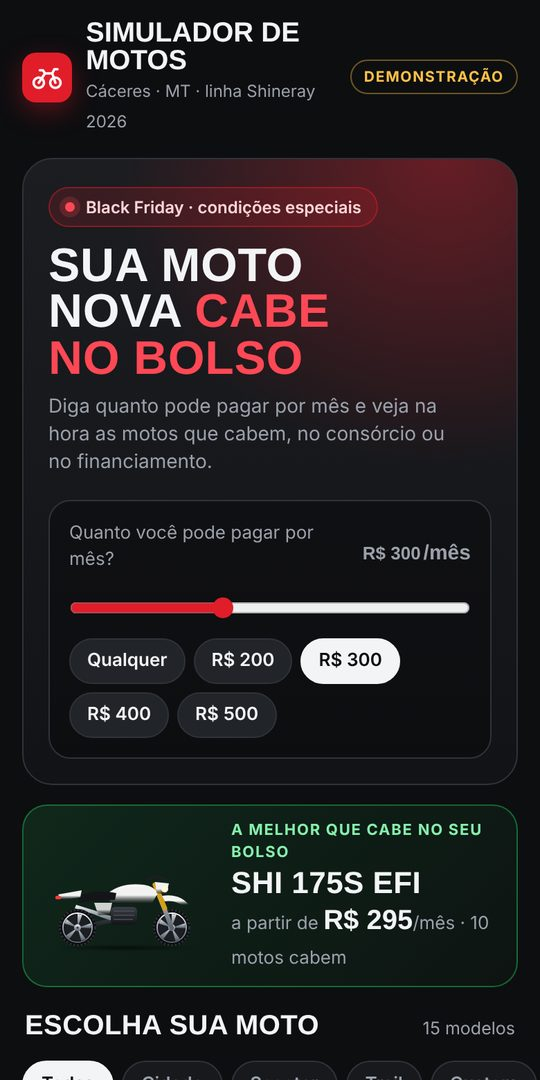
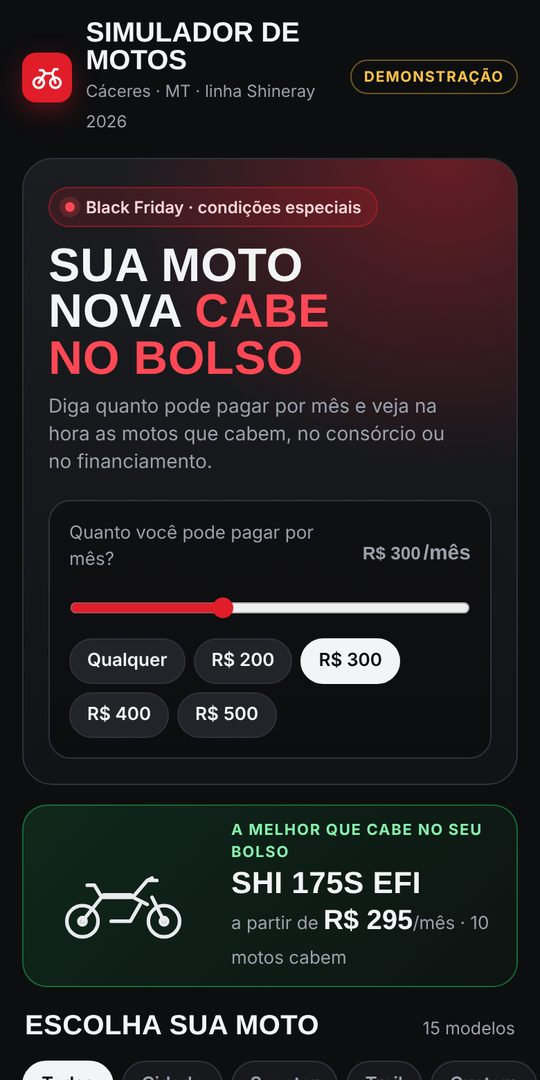
Simulador: volta os desenhos de traço, mantém o painel novo
Claude-Session: https://claude.ai/code/session_013yfqgnSFxvJMCizftNB9GF

Changed region(s): [[0.0889, 0.7944, 0.3556, 0.8861]]

diff --git a/simulador.html b/simulador.html
@@ -78,8 +78,8 @@ input[type=range]{width:100%;accent-color:var(--vermelho);margin:12px 0 8px;heig
 .card{position:relative;text-align:left;background:var(--chassi);border:1px solid var(--risco);border-radius:18px;padding:0 0 12px;display:flex;flex-direction:column;overflow:hidden;transition:transform .15s,border-color .15s}
 .card:hover{border-color:#4a4f57}
 .card:active{transform:scale(.98)}
-.palco{position:relative;padding:8px 6px 0;background:radial-gradient(70% 60% at 50% 100%,rgba(225,29,42,.22),transparent 70%),linear-gradient(180deg,#1d2024,#17191c)}
-.palco svg{display:block;width:100%;height:auto}
+.palco{position:relative;padding:16px 14px 8px;background:radial-gradient(70% 60% at 50% 100%,rgba(225,29,42,.22),transparent 70%),linear-gradient(180deg,#1d2024,#17191c)}
+.palco svg{display:block;width:100%;max-width:150px;height:auto;margin:0 auto}
 .card .in{padding:4px 12px 0;display:flex;flex-direction:column;gap:2px}
 .card small{font-size:10.5px;color:var(--apagado);text-transform:uppercase;letter-spacing:.07em;font-weight:600}
 .card h3{font-size:20px;font-weight:800;line-height:1.05}
@@ -106,7 +106,7 @@ input[type=range]{width:100%;accent-color:var(--vermelho);margin:12px 0 8px;heig
 @keyframes sobe{from{transform:translateY(30px);opacity:.4}to{transform:none;opacity:1}}
 .sh-in{overflow-y:auto;padding:0 16px 16px;flex:1}
 .sh-palco{position:relative;margin:0 -16px;padding:18px 24px 0;background:radial-gradient(70% 70% at 50% 100%,rgba(225,29,42,.3),transparent 70%),linear-gradient(180deg,#1f2226,#17191c);border-radius:24px 24px 0 0}
-.sh-palco svg{display:block;width:100%;max-width:420px;margin:0 auto;height:auto}
+.sh-palco svg{display:block;width:100%;max-width:260px;margin:0 auto;height:auto;padding:6px 0 14px}
 .x{position:absolute;top:12px;right:12px;background:rgba(0,0,0,.45);border:1px solid var(--risco);border-radius:12px;width:38px;height:38px;font-size:20px;line-height:1;color:var(--texto);z-index:2}
 .share{position:absolute;top:12px;left:12px;background:rgba(0,0,0,.45);border:1px solid var(--risco);border-radius:12px;height:38px;padding:0 12px;font-size:12.5px;font-weight:600;color:var(--texto);z-index:2}
 .sh-h{padding:10px 0 4px}
@@ -194,7 +194,7 @@ input[type=range]{width:100%;accent-color:var(--vermelho);margin:12px 0 8px;heig
   <div class="grid" id="grid"></div>
 
   <div class="confia"><div><b>Sem juros</b><span>no consórcio</span></div><div><b>Até 48x</b><span>no financiamento</span></div><div><b>Moto usada</b><span>vale como entrada</span></div></div>
-  <p class="nota">Preços sugeridos de fábrica (referência maio/2026); alguns modelos com frete à parte. Cores das ilustrações são só ilustrativas. Parcelas são estimativas: o financiamento depende de análise de crédito, e o consórcio segue as regras da administradora, com contemplação por sorteio ou lance.</p>
+  <p class="nota">Preços sugeridos de fábrica (referência maio/2026); alguns modelos com frete à parte. Parcelas são estimativas: o financiamento depende de análise de crédito, e o consórcio segue as regras da administradora, com contemplação por sorteio ou lance.</p>
   <div class="rod"><span>Demonstração criada por <a href="index.html">Cesar</a>.</span><button class="lnk" id="adm-open">Modo loja</button></div>
 </div>
 
@@ -202,111 +202,16 @@ input[type=range]{width:100%;accent-color:var(--vermelho);margin:12px 0 8px;heig
 <div class="toast" id="toast" hidden></div>
 
 <script>
-/* Ilustrações laterais das motos, desenhadas em SVG (sem fotos de terceiros). bike(tipo, cor, id) devolve o SVG. */
-function bike(t,cor,uid){
-  cor=cor||'#e11d2a';uid=uid||('b'+Math.random().toString(36).slice(2,7));
-  const G=`<defs>
-   <linearGradient id="${uid}c" x1="0" y1="0" x2="0" y2="1"><stop offset="0" stop-color="${cor}" stop-opacity="1"/><stop offset=".55" stop-color="${cor}"/><stop offset="1" stop-color="#000" stop-opacity=".55"/></linearGradient>
-   <linearGradient id="${uid}m" x1="0" y1="0" x2="0" y2="1"><stop offset="0" stop-color="#f4f6f8"/><stop offset=".5" stop-color="#9aa3ad"/><stop offset="1" stop-color="#5b636c"/></linearGradient>
-   <linearGradient id="${uid}k" x1="0" y1="0" x2="0" y2="1"><stop offset="0" stop-color="#3a3f46"/><stop offset="1" stop-color="#121417"/></linearGradient>
-   <radialGradient id="${uid}s" cx=".5" cy=".5" r=".5"><stop offset="0" stop-color="#000" stop-opacity=".55"/><stop offset="1" stop-color="#000" stop-opacity="0"/></radialGradient>
-  </defs>`;
-  const C=`url(#${uid}c)`,M=`url(#${uid}m)`,K=`url(#${uid}k)`;
-  const roda=(x,y,r,tipo)=>{const raios=[];if(tipo==='raio'){for(let i=0;i<12;i++){const a=i*Math.PI/6;raios.push(`<line x1="${x}" y1="${y}" x2="${(x+Math.cos(a)*(r-7)).toFixed(1)}" y2="${(y+Math.sin(a)*(r-7)).toFixed(1)}" stroke="#c9ced4" stroke-width=".8"/>`)}}
-    else{for(let i=0;i<5;i++){const a=i*2*Math.PI/5-Math.PI/2,b=a+.35;raios.push(`<path d="M${x} ${y} L${(x+Math.cos(a)*(r-7)).toFixed(1)} ${(y+Math.sin(a)*(r-7)).toFixed(1)} L${(x+Math.cos(b)*(r-7)).toFixed(1)} ${(y+Math.sin(b)*(r-7)).toFixed(1)} Z" fill="${M}" opacity=".9"/>`)}}
-    return`<circle cx="${x}" cy="${y}" r="${r}" fill="#0c0d0f"/>${tipo==='cravo'?`<circle cx="${x}" cy="${y}" r="${r-1.5}" fill="none" stroke="#2b2e33" stroke-width="3" stroke-dasharray="3 2.4"/>`:''}<circle cx="${x}" cy="${y}" r="${r-6}" fill="none" stroke="${M}" stroke-width="2"/><circle cx="${x}" cy="${y}" r="${r-8}" fill="#1b1e22"/>${raios.join('')}<circle cx="${x}" cy="${y}" r="${tipo==='raio'?4:5}" fill="${M}"/><circle cx="${x}" cy="${y}" r="1.6" fill="#2b2e33"/>`};
-  const sombra=(x1,x2)=>`<ellipse cx="${(x1+x2)/2}" cy="139" rx="${(x2-x1)/2+30}" ry="5" fill="url(#${uid}s)"/>`;
-  let s='';
-  if(t==='cidade'||t==='street'){ /* street utilitária */
-    s=sombra(58,184)+`
-    <path d="M58 112 L112 101 L114 107 L60 117 Z" fill="${K}"/>
-    <path d="M118 112 Q96 110 70 104 L40 99 L41 94 L72 98 Q98 103 120 106 Z" fill="${M}"/>
-    ${roda(58,112,25,'raio')}${roda(186,112,25,'raio')}
-    <path d="M168 62 L188 112" stroke="${M}" stroke-width="6" stroke-linecap="round"/>
-    <path d="M168 62 L178 86" stroke="#1b1e22" stroke-width="7" stroke-linecap="round"/>
-    <path d="M160 88 Q186 78 206 98 L202 102 Q184 88 164 94 Z" fill="${C}"/>
-    <rect x="102" y="84" width="40" height="28" rx="6" fill="${K}"/><path d="M106 90h32M106 96h32M106 102h30" stroke="#4a5058" stroke-width="1.5"/>
-    <path d="M100 66 Q118 50 150 54 Q160 56 164 64 L160 76 Q130 80 104 80 Z" fill="${C}"/>
-    <path d="M110 62 Q126 54 146 57" stroke="#fff" stroke-opacity=".45" stroke-width="2" fill="none" stroke-linecap="round"/>
-    <path d="M62 74 Q82 64 108 68 L106 79 Q84 80 60 84 Z" fill="#141518"/>
-    <path d="M40 80 L64 72 L62 84 L42 90 Z" fill="${C}"/><rect x="34" y="84" width="9" height="5" rx="2" fill="#ff3b3b"/>
-    <path d="M80 82 L104 80 L102 98 L86 98 Z" fill="${C}" opacity=".85"/>
-    <path d="M158 50 L168 46 L180 48" stroke="#1b1e22" stroke-width="4" fill="none" stroke-linecap="round"/>
-    <circle cx="176" cy="66" r="9" fill="${M}"/><circle cx="178" cy="66" r="6" fill="#fff8d6"/>`}
-  else if(t==='cub'){ /* cub com escudo */
-    s=sombra(60,182)+`
-    <path d="M60 112 L110 103 L111 108 L62 117 Z" fill="${K}"/>
-    <path d="M114 112 Q92 110 70 106 L44 102 L45 97 L72 101 Q94 105 116 107 Z" fill="${M}"/>
-    ${roda(60,112,24,'raio')}${roda(182,112,24,'raio')}
-    <path d="M166 58 L184 112" stroke="${M}" stroke-width="6" stroke-linecap="round"/>
-    <path d="M158 88 Q182 80 200 98 L196 102 Q180 90 162 94 Z" fill="${C}"/>
-    <rect x="100" y="90" width="34" height="22" rx="6" fill="${K}"/>
-    <path d="M70 70 L126 72 Q140 74 146 90 L136 92 Q128 80 112 82 L76 84 Z" fill="${C}"/>
-    <path d="M146 92 Q150 66 162 52 L172 56 Q160 72 158 96 Z" fill="${C}"/>
-    <path d="M64 66 Q84 58 112 62 L112 72 Q86 72 62 76 Z" fill="#141518"/>
-    <path d="M44 74 L66 68 L66 78 L46 84 Z" fill="${C}"/><rect x="38" y="78" width="8" height="5" rx="2" fill="#ff3b3b"/>
-    <path d="M160 46 L170 42 L182 44" stroke="#1b1e22" stroke-width="4" fill="none" stroke-linecap="round"/>
-    <path d="M166 50 Q178 46 184 54 L176 62 Q168 60 164 56 Z" fill="${C}"/><circle cx="180" cy="54" r="4" fill="#fff8d6"/>`}
-  else if(t==='scooter'||t==='ciclo'){ const r=t==='ciclo'?20:21;
-    s=sombra(64,180)+`
-    ${roda(64,116,r,'liga')}${roda(180,116,r,'liga')}
-    <path d="M168 62 L180 116" stroke="${M}" stroke-width="5" stroke-linecap="round"/>
-    <path d="M160 96 Q180 86 196 102 L192 106 Q180 96 164 100 Z" fill="${C}"/>
-    <path d="M40 92 Q46 70 76 66 L126 66 Q138 66 140 76 L144 100 L92 102 Q74 104 62 104 Q46 104 40 92 Z" fill="${C}"/>
-    <path d="M58 76 Q76 70 110 71" stroke="#fff" stroke-opacity=".4" stroke-width="2" fill="none" stroke-linecap="round"/>
-    <path d="M92 104 L150 104 L156 96 L142 94 Z" fill="${K}"/>
-    <path d="M140 100 Q150 66 168 48 L178 54 Q164 72 158 104 Z" fill="${C}"/>
-    <path d="M54 62 Q80 52 120 56 L122 66 Q86 66 52 70 Z" fill="#141518"/>
-    <path d="M36 88 L44 86 L44 92 L36 94 Z" fill="#ff3b3b"/>
-    <path d="M164 40 L174 36 L186 40" stroke="#1b1e22" stroke-width="4" fill="none" stroke-linecap="round"/>
-    <path d="M168 44 Q182 42 186 52 L176 58 Q168 54 166 50 Z" fill="${C}"/><circle cx="182" cy="50" r="4" fill="#fff8d6"/>`}
-  else if(t==='trail'){
-    s=sombra(54,190)+`
-    <path d="M54 108 L112 94 L114 100 L56 114 Z" fill="${K}"/>
-    <path d="M120 104 Q100 100 76 90 L50 82 L52 77 L78 85 Q102 94 122 98 Z" fill="${M}"/>
-    ${roda(54,110,27,'cravo')}${roda(190,110,27,'cravo')}
-    <path d="M166 48 L190 110" stroke="${M}" stroke-width="6.5" stroke-linecap="round"/>
-    <path d="M166 48 L180 82" stroke="#d4a017" stroke-width="7" stroke-linecap="round"/>
-    <path d="M176 64 Q200 60 214 76 L206 78 Q194 70 180 72 Z" fill="${C}"/>
-    <rect x="102" y="80" width="38" height="26" rx="6" fill="${K}"/><path d="M106 86h30M106 92h30M106 98h28" stroke="#4a5058" stroke-width="1.5"/>
-    <path d="M98 60 Q118 44 150 48 Q164 50 170 60 L162 74 Q130 74 102 76 Z" fill="${C}"/>
-    <path d="M108 56 Q124 48 148 51" stroke="#fff" stroke-opacity=".45" stroke-width="2" fill="none" stroke-linecap="round"/>
-    <path d="M56 64 Q82 54 110 60 L108 70 Q84 70 56 74 Z" fill="#141518"/>
-    <path d="M26 62 L60 56 L58 66 L30 70 Z" fill="${C}"/><rect x="22" y="64" width="8" height="5" rx="2" fill="#ff3b3b"/>
-    <path d="M78 74 L104 74 L100 92 L84 92 Z" fill="${C}" opacity=".85"/>
-    <path d="M156 40 L168 36 L182 40" stroke="#1b1e22" stroke-width="4" fill="none" stroke-linecap="round"/>
-    <path d="M166 44 L186 46 L182 62 L168 60 Z" fill="${C}"/><circle cx="180" cy="54" r="5" fill="#fff8d6"/>`}
-  else if(t==='custom'){
-    s=sombra(50,194)+`
-    <path d="M50 114 L106 106 L108 112 L52 120 Z" fill="${K}"/>
-    <path d="M124 116 L54 110 L30 108 L30 103 L56 105 L126 110 Z" fill="${M}"/>
-    ${roda(50,114,27,'raio')}${roda(196,116,23,'raio')}
-    <path d="M160 58 L196 116" stroke="${M}" stroke-width="6" stroke-linecap="round"/>
-    <path d="M176 94 Q198 88 214 106 L208 110 Q196 98 180 100 Z" fill="${C}"/>
-    <path d="M98 88 L142 88 L148 112 L104 112 Z" fill="${K}"/><path d="M110 92 L118 110 M126 92 L134 110" stroke="${M}" stroke-width="5" stroke-linecap="round"/>
-    <path d="M106 74 Q122 58 150 62 Q160 64 160 72 L154 82 Q130 86 108 86 Z" fill="${C}"/>
-    <path d="M114 70 Q128 62 148 65" stroke="#fff" stroke-opacity=".45" stroke-width="2" fill="none" stroke-linecap="round"/>
-    <path d="M62 84 Q82 74 110 78 L108 88 Q86 90 60 94 Z" fill="#141518"/>
-    <path d="M28 94 Q44 82 66 84 L64 92 Q46 94 30 100 Z" fill="${C}"/>
-    <path d="M150 50 L160 44 L176 42" stroke="${M}" stroke-width="4" fill="none" stroke-linecap="round"/>
-    <circle cx="170" cy="64" r="9" fill="${M}"/><circle cx="172" cy="64" r="6" fill="#fff8d6"/>`}
-  else { /* naked / esportiva */
-    s=sombra(56,188)+`
-    <path d="M56 110 L114 98 L116 104 L58 116 Z" fill="${K}"/>
-    <path d="M122 110 Q100 104 82 92 L72 84 L76 80 L86 88 Q104 100 124 104 Z" fill="${M}"/><rect x="66" y="76" width="16" height="9" rx="3" fill="${M}"/>
-    ${roda(56,110,26,'liga')}${roda(188,110,26,'liga')}
-    <path d="M166 56 L188 110" stroke="#d4a017" stroke-width="7" stroke-linecap="round"/>
-    <path d="M160 86 Q184 76 206 94 L202 98 Q184 86 164 92 Z" fill="${C}"/>
-    <path d="M100 80 L144 80 L150 106 L108 108 Z" fill="${K}"/>
-    <path d="M110 108 L150 108 L156 98 L114 98 Z" fill="${C}"/>
-    <path d="M96 62 Q116 42 152 48 Q166 52 170 64 L164 80 Q134 84 100 82 Z" fill="${C}"/>
-    <path d="M108 56 Q126 46 152 52" stroke="#fff" stroke-opacity=".45" stroke-width="2" fill="none" stroke-linecap="round"/>
-    <path d="M60 64 Q80 56 104 62 L102 72 Q82 72 58 76 Z" fill="#141518"/>
-    <path d="M36 56 L64 58 L62 68 L40 64 Z" fill="${C}"/><rect x="32" y="56" width="8" height="5" rx="2" fill="#ff3b3b"/>
-    <path d="M154 44 L166 40 L180 44" stroke="#1b1e22" stroke-width="4" fill="none" stroke-linecap="round"/>
-    <path d="M162 50 L182 52 L178 66 L166 64 Z" fill="${K}"/><path d="M168 56 L180 57" stroke="#bfe9ff" stroke-width="3" stroke-linecap="round"/>`}
-  return`<svg viewBox="0 0 240 146" xmlns="http://www.w3.org/2000/svg" aria-hidden="true">${G}${s}</svg>`}
-
+/* desenhos simples por tipo */
+function moto(t){const W='<circle cx="26" cy="50" r="13"/><circle cx="94" cy="50" r="13"/><circle cx="26" cy="50" r="3"/><circle cx="94" cy="50" r="3"/>';
+  const B={cidade:'<path d="M26 50l18-18h22l10 8M44 32l-4-6h-8M66 32l10-14h8M76 18l6-2M50 50h18l8-10"/><path d="M46 31h20" stroke-width="5"/>',
+   scooter:'<path d="M26 50h40l10-14-4-20h8M72 16h-6M34 42c6-8 16-10 30-8M30 36h24"/><path d="M36 34h22" stroke-width="6"/>',
+   trail:'<path d="M26 50l16-20h26l12 6M42 30l-6-10h-6M68 30l12-14h8M80 16l4-2M50 50h16l8-14"/><path d="M44 29h22" stroke-width="5"/><path d="M84 30l10 20"/>',
+   custom:'<path d="M26 50l12-14h20l20 2M38 36c-4-4-6-6-10-6M78 38l8-18h10M86 20l-4-4M50 50h22l6-12"/><path d="M40 35h18" stroke-width="6"/>',
+   grande:'<path d="M26 50l20-20h22l12 10M46 30l-8-6h-8M68 30l8-12h10M86 18l4-2M48 50h22l10-10"/><path d="M48 29h20" stroke-width="7"/>',
+   ciclo:'<path d="M26 50h36l14-16-4-16h8M30 40c8-6 18-8 30-6M30 36h22"/><path d="M34 34h18" stroke-width="5"/>'}[t]||'';
+  return`<svg viewBox="0 0 120 66" fill="none" stroke="currentColor" stroke-width="3" stroke-linecap="round" stroke-linejoin="round" aria-hidden="true" style="color:#e8eaee">${W}${B}</svg>`}
+function bike(t){return moto(t==='cub'?'cidade':t)}
 
 (function(){
 "use strict";
